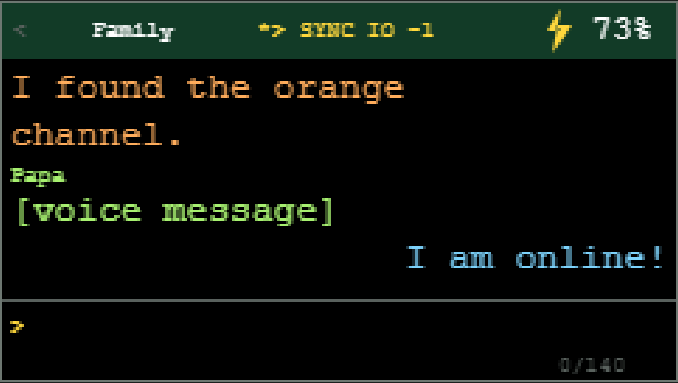
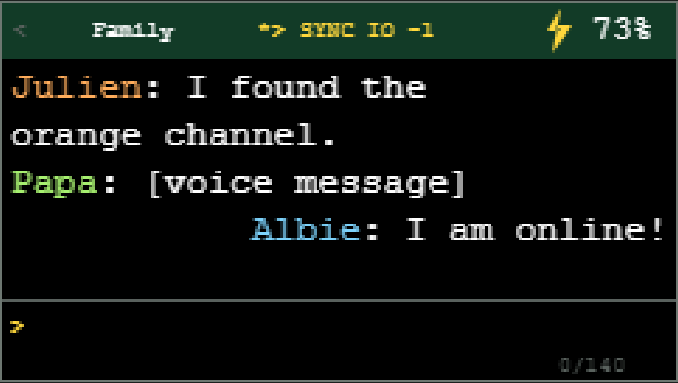
Restore inline sender identities and distinct colors

diff --git a/server/web/app.js b/server/web/app.js
@@ -56,7 +56,7 @@ const api = async (path, options = {}) => {
 };
 const escapeHtml = (value) => value.replace(/[&<>'"]/g, (char) => ({'&':'&amp;','<':'&lt;','>':'&gt;',"'":'&#39;','"':'&quot;'}[char]));
 const time = (value) => new Intl.DateTimeFormat([], {hour:'numeric',minute:'2-digit'}).format(new Date(value));
-const identityClass = (id) => ['albie', 'juju', 'papa'].includes(id) ? `author-${id}` : 'author-other';
+const identityClass = (id) => ['albie', 'juju', 'papa', 'theo', 'josee', 'emmanuelle', 'andrew', 'naomie'].includes(id) ? `author-${id}` : 'author-other';
 const receiptLabel = (message) => {
   const names = { albie: 'Albie', juju: 'Juju' };
   const deviceReceipts = (message.receipts || []).filter((item) => names[item.user_id]);
@@ -68,8 +68,8 @@ const receiptLabel = (message) => {
 function renderMessages(scroll = false) {
   messagesEl.innerHTML = messages.length ? messages.map((message) => `
     <article class="message ${message.author_id === currentUser?.id ? 'mine' : ''} ${identityClass(message.author_id)}" data-id="${message.id}">
-      <div class="bubble">${message.type === 'voice' ? `<button class="voice-play" data-voice-id="${message.id}">▶ Play voice</button><span class="voice-wave">${Math.round((message.voice?.duration_ms || 0) / 100) / 10}s</span>` : escapeHtml(message.body)}</div>
-      <div class="message-meta"><strong>${escapeHtml(message.author_name)}</strong><span>${time(message.created_at)}</span>${message.author_id === currentUser?.id ? `<span class="receipt">${receiptLabel(message)}</span>` : ''}</div>
+      <div class="bubble"><strong class="message-sender">${escapeHtml(message.author_name)}</strong><span class="message-separator">: </span><span class="message-body">${message.type === 'voice' ? `<button class="voice-play" data-voice-id="${message.id}">▶ Play voice</button><span class="voice-wave">${Math.round((message.voice?.duration_ms || 0) / 100) / 10}s</span>` : escapeHtml(message.body)}</span></div>
+      <div class="message-meta"><span>${time(message.created_at)}</span>${message.author_id === currentUser?.id ? `<span class="receipt">${receiptLabel(message)}</span>` : ''}</div>
     </article>`).join('') : '<p class="empty">No messages yet.<br>Say the first thing.</p>';
   if (scroll) messagesEl.scrollTop = messagesEl.scrollHeight;
 }

diff --git a/server/web/controls.css b/server/web/controls.css
@@ -7,12 +7,18 @@
 .room-picker { display:flex; align-items:center; gap:8px; margin-top:8px; color:var(--muted); font:700 .72rem/1 ui-monospace,monospace; text-transform:uppercase; letter-spacing:.08em; }
 .room-picker select,.admin-card select { min-height:40px; border:1px solid var(--line); border-radius:11px; padding:0 34px 0 11px; background:var(--bg); color:var(--ink); font:inherit; }
 
-:root { --albie:#7dd3fc; --julien:#ffad5c; --papa:#a7f070; }
+:root { --albie:#7dd3fc; --julien:#ffad5c; --papa:#a7f070; --theo:#c4a7ff; --josee:#ff8fb8; --emmanuelle:#60e1e0; --andrew:#f4d35e; --naomie:#ff6b6b; }
 .author-albie { --identity:var(--albie); }
 .author-juju { --identity:var(--julien); }
 .author-papa { --identity:var(--papa); }
+.author-theo { --identity:var(--theo); }
+.author-josee { --identity:var(--josee); }
+.author-emmanuelle { --identity:var(--emmanuelle); }
+.author-andrew { --identity:var(--andrew); }
+.author-naomie { --identity:var(--naomie); }
 .author-other { --identity:var(--ink); }
-.person strong, .message .message-meta strong { color:var(--identity); }
+.person strong, .message-sender { color:var(--identity); }
+.message-separator,.message-body { color:var(--ink); }
 .person .dot { background:var(--identity); opacity:.32; box-shadow:none; }
 .person .dot.online { background:var(--identity); opacity:1; box-shadow:0 0 12px var(--identity); }
 .person .dot.recent { background:var(--identity); opacity:.72; }

diff --git a/firmware/src/main.cpp b/firmware/src/main.cpp
@@ -170,17 +170,23 @@ struct ChatMessage {
 
 struct ChatLine {
   String text;
+  String sender;
   uint32_t colour;
   bool mine;
-  bool label;
+  bool showSender;
 };
 struct ChatRoom { String id; String name; int64_t latestMessageId; int64_t seenMessageId; };
 
 uint32_t participantColour(const String &authorId, const String &authorName = "") {
   String identity = authorId + " " + authorName; identity.toLowerCase();
-  if (identity.indexOf("albie") >= 0) return TFT_SKYBLUE;
-  if (identity.indexOf("juju") >= 0 || identity.indexOf("julien") >= 0) return TFT_ORANGE;
-  if (identity.indexOf("papa") >= 0) return TFT_GREEN;
+  if (identity.indexOf("albie") >= 0) return 0x7DD3FC;
+  if (identity.indexOf("juju") >= 0 || identity.indexOf("julien") >= 0) return 0xFFAD5C;
+  if (identity.indexOf("papa") >= 0 || identity.indexOf("jay") >= 0) return 0xA7F070;
+  if (identity.indexOf("theo") >= 0 || identity.indexOf("théo") >= 0) return 0xC4A7FF;
+  if (identity.indexOf("josee") >= 0 || identity.indexOf("josée") >= 0) return 0xFF8FB8;
+  if (identity.indexOf("emman") >= 0) return 0x60E1E0;
+  if (identity.indexOf("andrew") >= 0) return 0xF4D35E;
+  if (identity.indexOf("naomie") >= 0) return 0xFF6B6B;
   return TFT_WHITE;
 }
 
@@ -1187,34 +1193,39 @@ void drawChat() {
     const auto &message = messages[index];
     const bool mine = message.authorId == kDeviceId;
     const uint32_t colour = participantColour(message.authorId, message.authorName);
-    if (!mine) lines.push_back({message.authorName.substring(0, 5), colour, false, true});
+    const String sender = (message.authorName.isEmpty() ? message.authorId : message.authorName).substring(0, 12);
     String text = message.voice ? String("[voice message]") : message.body;
+    bool firstChunk = true;
     while (!text.isEmpty()) {
-      int split = text.length() <= 25 ? text.length() : text.lastIndexOf(' ', 25);
-      if (split < 6) split = std::min(25, static_cast<int>(text.length()));
+      const int width = firstChunk ? std::max(8, 23 - static_cast<int>(sender.length())) : 25;
+      int split = text.length() <= width ? text.length() : text.lastIndexOf(' ', width);
+      if (split < 6) split = std::min(width, static_cast<int>(text.length()));
       String line = text.substring(0, split);
       text = text.substring(split);
       while (text.startsWith(" ")) text.remove(0, 1);
-      lines.push_back({line, colour, mine, false});
+      lines.push_back({line, sender, colour, mine, firstChunk});
+      firstChunk = false;
     }
   }
   int firstLine = static_cast<int>(lines.size());
   int usedHeight = 0;
   while (firstLine > 0) {
-    const int lineHeight = lines[firstLine - 1].label ? 10 : 17;
-    if (usedHeight + lineHeight > 82) break;
-    usedHeight += lineHeight; firstLine--;
+    if (usedHeight + 17 > 82) break;
+    usedHeight += 17; firstLine--;
   }
+  // Never show an orphaned body whose sender prefix was clipped by the viewport.
+  if (firstLine < static_cast<int>(lines.size())) lines[firstLine].showSender = true;
   int y = 24;
   for (int index = firstLine; index < static_cast<int>(lines.size()); index++) {
-    if (lines[index].label) {
-      display.setFont(&fonts::Font0); display.setTextSize(1);
-    } else {
-      display.setFont(&fonts::Font2); display.setTextSize(1);
-    }
-    display.setTextColor(lines[index].colour, TFT_BLACK);
-    const int x = lines[index].mine ? std::max(3, 237 - display.textWidth(lines[index].text)) : 3;
-    display.setCursor(x, y); display.print(lines[index].text); y += lines[index].label ? 10 : 17;
+    display.setFont(&fonts::Font2); display.setTextSize(1);
+    const String prefix = lines[index].showSender ? lines[index].sender + ": " : "";
+    const int x = lines[index].mine ? std::max(3, 237 - display.textWidth(prefix + lines[index].text)) : 3;
+    display.setCursor(x, y);
+    if (lines[index].showSender) {
+      display.setTextColor(lines[index].colour, TFT_BLACK); display.print(lines[index].sender);
+      display.setTextColor(TFT_WHITE, TFT_BLACK); display.print(": ");
+    } else display.setTextColor(TFT_WHITE, TFT_BLACK);
+    display.print(lines[index].text); y += 17;
   }
   xSemaphoreGive(stateMutex);
   display.setFont(&fonts::Font0);
